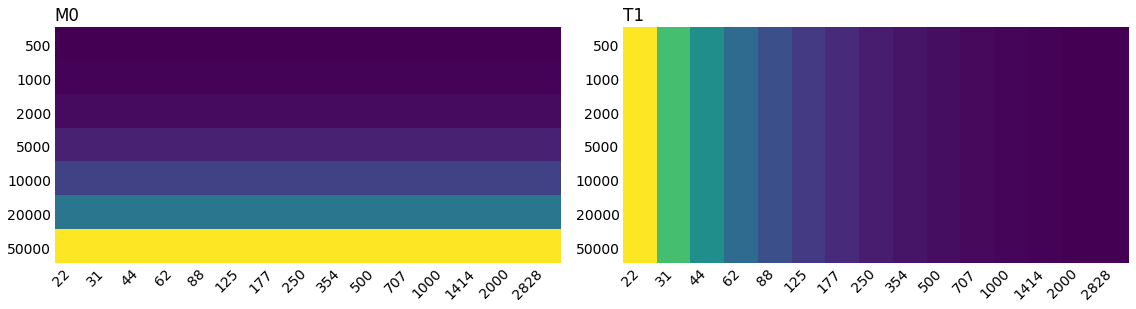
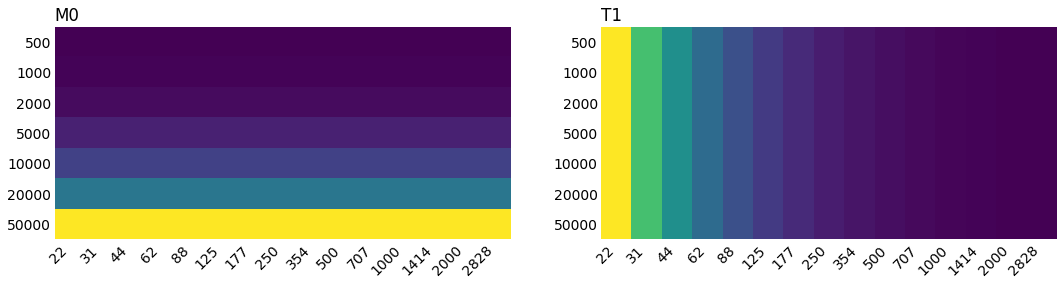
Update from https://github.com/OSIPI/DCE-DSC-MRI_CodeCollection/commit/5ff21ed738cb6ae3bfa2ce28475b15950de70b2d

Changed region(s): [[0.0, 0.0281, 1.0, 0.9825]]

diff --git a/searchindex.js b/searchindex.js
@@ -1,1 +1,1 @@
-Search.setIndex({docnames:["T1_tests_output","T1mapping","T1mapping_QIBAv1","T1mapping_QIBAv2","contributors","guidelines","intro","localguide","localtests","vfatestoverview"],envversion:{"sphinx.domains.c":2,"sphinx.domains.changeset":1,"sphinx.domains.citation":1,"sphinx.domains.cpp":4,"sphinx.domains.index":1,"sphinx.domains.javascript":2,"sphinx.domains.math":2,"sphinx.domains.python":3,"sphinx.domains.rst":2,"sphinx.domains.std":2,"sphinx.ext.intersphinx":1,sphinx:56},filenames:["T1_tests_output.ipynb","T1mapping.md","T1mapping_QIBAv1.ipynb","T1mapping_QIBAv2.ipynb","contributors.ipynb","guidelines.md","intro.md","localguide.md","localtests.md","vfatestoverview.md"],objects:{},objnames:{},objtypes:{},terms:{"0":[0,2,3,4,8,9],"05":2,"06":2,"08":2,"1":[0,1,2,3,4,8],"10":[3,4,8],"100":3,"10x10":3,"11":3,"112":2,"12":[3,8],"120":0,"121":0,"122":0,"13":[0,3],"133":2,"14":0,"141":2,"15":[2,3],"16":0,"17":[2,3],"170":0,"19":2,"1min":2,"1s":2,"2":[0,3,4,7,8],"20":[2,3,8],"213":2,"24":3,"25":2,"26":[2,3],"269":2,"2d":[2,3],"3":[0,2,3,4,5,7],"34":3,"35":3,"36":3,"3hwtc":3,"4":[3,4],"40":3,"44":3,"5":[0,3],"50":3,"56":2,"57":2,"6":[0,3,8],"62":3,"64":3,"66":3,"68":4,"69":4,"7":[2,3,8],"70":4,"70x150":3,"71":[3,4],"72":4,"73":4,"74":3,"76":0,"77":0,"7x15":3,"8":[2,3],"8bfb049230e307f4432fd68d24c603a1":[2,3],"9":[2,3,4],"94":3,"case":[8,9],"default":7,"function":[8,9],"import":[0,2,3,8],"new":7,"return":8,"switch":7,"true":[0,2,3],"try":0,"while":[7,9],A:[5,9],As:[3,8],At:7,For:[0,7,9],If:[5,7,8],In:8,It:8,Not:0,On:[5,7],The:[1,2,3,5,6,7,8],To:[3,5,7],_test:8,ab:8,about:7,abov:5,accept:5,accuraci:2,acquisit:1,across:7,ad:[7,8],add:[5,7,8],addit:9,address:5,adopt:8,advantag:2,affect:7,again:2,all:[2,5,7,8],all_untracked_fil:5,almost:0,alpha:1,alreadi:7,also:5,although:3,altman:0,amsterdam:4,an:[5,8,9],angl:[1,6,9],ani:7,anoth:[5,8],api:8,applic:[5,7],approach:[5,9],ar:[0,1,2,3,5,7,8,9],arang:0,argument:9,ask:5,assert:8,assum:8,author:[2,3,4,5],ax:[0,3],axi:0,b1:1,b:[5,7,8],barrow:4,base:[5,7,9],basic:8,becaus:2,been:[3,7,8,9],befor:7,being:[7,8,9],bell:4,below:[2,3,5,7,8],berk:4,better:[0,2],between:0,bland:0,block:3,brain:0,briefli:8,bsw:4,c0baa2a1c55afdf1764b26ee2ebeb1cbf26d8d98:[2,3],c:8,calcul:0,can:[2,5,8],capit:8,capital_cas:8,categori:4,cbf:4,cbv:4,center:4,champion:4,chang:0,cheat:7,check:[7,9],checkout:[5,7],citat:5,click:5,clim:2,clone:7,co:1,code:[7,8,9],colleagu:5,collect:6,column:4,com:[2,3,5,7],combin:[2,3],command:[7,8],commit:[5,7],commonli:8,commun:5,compar:[5,7],compat:3,complet:4,compon:5,comput:[2,7,9],concentr:4,conda:8,connect:7,consist:2,contact:5,contain:[2,3,5],continu:8,control:1,convent:8,correct:[4,9],correspond:[0,8],could:[3,9],cpu:[2,3],csv:0,current:[4,5,6,9],data:[0,2,3,5,6,8],data_mcgil:0,data_mjt:0,data_og:0,data_st:0,datafold:[2,3],dce:[4,5,7],def:8,degre:9,delet:7,deliver:7,delta:0,deltar2:4,denot:8,deriv:4,describ:[1,5,8],descript:9,detail:[5,8],determin:9,develop:7,development:7,diff:0,diff_mcgil:0,diff_mcgill_brain:0,diff_mcgill_pr:0,diff_mjt:0,diff_mjt_brain:0,diff_mjt_pr:0,diff_og:0,diff_og_brain:0,diff_og_pr:0,diff_st:0,diff_st_brain:0,diff_st_pr:0,differ:[0,2,5,7,8],directli:5,doc:8,document:[7,8,9],down:[5,7],download:[2,3],download_osf:[2,3],drawfunc:3,dro:9,drop:[5,7],dsc:[4,5,7],dual:4,dure:7,e:[5,9],each:[3,7,9],earlier:7,echo:[1,4],edinburgh:[3,4],edinburgh_l:[2,3],edinburgh_nl:[2,3],effect:1,either:8,email:5,empti:4,enabl:7,encourag:7,enhanc:4,enter:7,entri:0,equal:9,equt:9,error:[2,3,9],establish:7,estim:[1,2],etc:5,evalu:7,exampl:[7,8,9],example_funct:8,except:9,exhaust:7,exp:1,expect:[8,9],explicitli:7,extra:0,extrem:2,face:7,facilit:5,fail:8,failur:8,fast:2,featur:7,feature_branch_nam:5,fig:[0,3],figsiz:0,figur:[0,3,7],file:[5,7],file_test_mcgil:0,file_test_mjt:0,file_test_og:0,file_test_st:0,filenam:3,first:[0,2,7,8],firstlast:8,fit:[2,3,9],fittedm0:2,fittedt1:2,fittyp:[2,3],flip:[1,6,9],focus:6,folder:[5,7,8],follow:[2,3,5,7,8,9],fontsiz:0,forc:[5,7],forg:8,found:8,frac:1,framework:9,from:[0,2,3,7,8,9],further:5,g:5,gener:7,get:8,gif:3,gist:[2,3],git:[5,7],github:[2,3,7],give:2,goal:1,gradient:1,grid:[2,3],ground:2,group:5,guid:[5,8],guidelin:7,gurnei:4,ha:[2,3,7,8],hardcod:0,have:[2,7,9],heavi:2,help:5,hostedtoolcach:3,hous:[5,7],how:8,howev:3,http:[2,3,5,7],i:9,ident:[0,2,3],identifi:5,idx:3,ignor:1,imag:3,immedi:7,implement:[0,2,3],includ:[3,5,9],incorrect:3,index_list:0,index_list_br:0,index_list_pr:0,indic:[0,8],inform:7,initi:[5,7],initials_featurebranchnam:5,institut:[4,5],instruct:7,instut:5,intend:5,invalid:9,invit:5,invivo:9,io:[2,3],isdir:[2,3],issu:[5,7],its:7,join:[0,2,3],jzu4k:2,kershaw:4,kind:0,known:[1,5],lab:5,label:[0,5],label_mcgil:0,label_mjt:0,label_og:0,label_st:0,lambda:3,last:8,lattic:1,laura:4,lcb_bni:4,lead:5,leakag:4,least:3,legend:0,lek_uoedinburgh:4,len:9,let:[1,2,3,7,8],level:3,lib:3,librari:7,like:7,limit:5,line:8,linear:3,link:7,ll:[2,3],load:3,loadmat:[2,3],locat:[7,8],loct:8,look:7,luci:4,m0:[2,3],m:[5,7],m_0:[1,2,3],maco:7,made:7,magnet:1,mai:7,make_error_map_gif:3,makedir:[2,3],manag:8,manchest:4,map:[2,3,6],mark:8,master:7,mat:[2,3],matplotlib:[0,2,3],matthew:4,mayb:9,mb_qbi_uomanchesteruk:4,mcgill:[0,3],mcgill_can:0,mcgill_ll:[2,3],mcgill_lls_error:3,mcgill_nl:[2,3],mean:0,mean_meas_data:0,mean_measur:0,measur:0,mechan:5,medic:4,menu:7,merg:7,messag:[5,7,8],michael:4,might:[0,3],mileston:[5,7],mismatch:9,mjt:0,mjt_edinburghuk:0,mjt_uoedinburghuk:4,modif:7,modifi:8,more:5,mr:9,mri:[1,5],mri_codecollect:[5,7],ms:[2,3],mtt:4,multipl:0,name:[5,7,8],nan:4,navig:7,nb:[2,3],necessari:5,need:0,neg:9,neth:4,neurolog:4,new_file_in_repositori:7,next:[2,3],nl:[2,3],nois:[2,3,9],noisi:3,nomenclatur:8,non:3,nonlinear:[2,3],note:[4,5,7,8],notebook:3,notzaki:[2,3],now:[1,5,7,8],ns:[2,3],numpi:[0,8],ob:0,obtain:[7,8],occupi:3,og:0,og_mo_aumc_icr_rhm:0,og_mo_aumc_icr_rmh:4,oliv:4,om:0,one:5,onli:[3,7],open:7,oper:7,opt:3,option:5,organ:5,origin:[5,7],orton:4,os:[0,2,3],osf:[2,3],osipi:[2,3,5,7,8],osipitaskforc:7,ot:7,other:5,our:8,out:[0,7],outlin:7,output:[7,8,9],packag:[3,8],pad:0,panda:0,paramet:[1,2,3,4],parametr:8,part:[5,9],particular:7,pass:9,path:[0,2,3],percent:3,percenterror:[2,3],perform:[5,7,8],perfus:8,phantom:[2,3,9],pip:8,pipelin:5,pleas:[5,7],plot:0,plt:[2,3],pltstyle:[2,3],point:7,poor:2,power:7,precis:2,prefer:5,prefix:8,present:7,previou:3,print:3,progress:[4,5],project:7,prostat:0,provid:[5,7,9],pull:7,purpos:8,puse:7,push:7,py:[3,5,8],pyplot:[0,2,3],pytest:8,python3:3,python:[3,5],qibav1:2,queri:5,question:5,r1:[0,4],r1_:0,r1_mcgill:0,r1_mcgill_brain:0,r1_mcgill_dro:0,r1_mcgill_pr:0,r1_measur:0,r1_mjt:0,r1_mjt_brain:0,r1_mjt_dro:0,r1_mjt_pr:0,r1_og:0,r1_og_brain:0,r1_og_dro:0,r1_og_pr:0,r1_ref:0,r1_st:0,r1_st_brain:0,r1_st_dro:0,r1_st_pr:0,r2:4,ragunathan:[4,5],rais:9,raw:[2,3],read_csv:0,real:5,recal:1,ref:0,ref_brain:0,ref_dro:0,ref_pr:0,refer:0,referenc:7,reflect:7,regard:5,relax:1,relev:5,remain:7,remind:3,remove_spac:8,repetit:1,report:7,repositori:5,repres:[5,9],request:7,research:5,result:[3,8,9],resultdir:0,returnfig:3,routin:8,row:[0,4],rudimentari:9,s:[0,1,2,3,5,7,8],sai:[5,7],same:[3,7],scanner:1,scientif:8,scipi:8,script:5,section:[2,3],see:8,select:[3,5],set:7,set_titl:0,set_xlabel:0,set_ylabel:0,sheet:7,should:[2,5,9],show:[0,2,7],show_error_map:[2,3],show_map:[2,3],showcbar:[2,3],shown:[3,7,8],sigma:3,signal:[1,3,4,9],similar:7,similari:8,simpl:7,simuat:9,simul:9,sin:1,singl:[3,4],site:3,size:3,slightli:2,slower:2,so:3,someth:7,sourc:[5,8],specif:[1,8,9],specifi:[7,9],speed:3,spgr:4,spin:1,spoil:1,squar:3,sr_tbg_bniphoenixusa:4,src:[5,8],st:0,st_sydneyau:0,start:8,statu:[4,5,7,9],step:[5,7],still:7,store:0,style:[2,3],subcategori:4,subfold:4,submiss:5,subplot:0,sudarshan:[4,5],suffici:7,suffix:8,sure:0,sy:[2,3],sydnei:3,sydney_l:[2,3],sydney_nl:[2,3],system:7,t1:[2,3,6],t_1:[1,2,3],t_2:1,tab:5,tabl:4,task:[5,7],tbd:4,te:1,techniqu:4,tend:2,termin:7,test:[2,3,4,5],test_:8,test_add:8,test_capital_cas:8,test_example_funct:8,test_osipitf:8,test_remove_spac:8,tester:4,testresults_t1mapping_test_mcgill_t1_novifast:0,testresults_t1mapping_test_mcgill_t1_vfa_lin:0,testresults_t1mapping_test_mjt_edinburghuk_t1_vfa_lin:0,testresults_t1mapping_test_mjt_edinburghuk_t1_vfa_nonlin:0,testresults_t1mapping_test_og_mo_aumc_icr_rhm_t1_vfa_2fa:0,testresults_t1mapping_test_st_sydneyaus_t1_vfa_lin:0,testresults_t1mapping_test_st_sydneyaus_t1_vfa_nonlin:0,text:5,tf2:5,thei:[2,7],thi:[0,2,3,4,5,6,7,8,9],those:0,three:[0,2],thrippleton:4,through:[5,7],tight_layout:[0,3],time:[1,2,3,7,9],tissu:1,titl:[0,2,3],tool:7,total:[2,3],tr:1,track:7,tracker:[5,7],tradit:2,truth:[2,3],typic:5,u:[5,8],uk:4,under:[2,5],uniqu:7,unit:9,univers:4,unless:7,unlik:3,unnam:4,untrack:7,up:[3,7],updat:5,upstream:7,url:7,us:[2,3,5,6,7,9],usa:4,user:[2,3,7],userwarn:3,util:[2,3],v1:3,v3:3,valu:[0,2,3],vari:9,variabl:[6,9],ve:3,version:7,vfa:[2,3],vfa_fit:[2,3],vfadata:[2,3],vfadata_noisi:3,vfafil:[2,3],via:5,voxel:3,vs:0,wai:0,wall:[2,3],we:[0,5,7,8],welcom:7,well:8,were:[3,8],when:7,where:[7,8],wherein:7,which:[8,9],within:[7,8],without:9,world:5,would:[5,7,8,9],wrapper:[2,3],write:8,written:5,x64:3,x:[0,7,8],xlabel:0,y:[0,8],ylabel:0,you:[5,7],your:[5,7]},titles:["Visualize output T1 mapping tests","T1 mapping","QIBA v1","QIBA v2","Contributors","Guidelines for code contribution","OSIPI Code Demo","Create a copy of the respository and contribute changes","Creating a Python test file","VFA T1 Mapping: Test Overview"],titleterms:{"new":5,"switch":5,In:[0,5],addit:7,approv:5,arrai:9,assert:9,branch:[5,7],chang:7,clone:5,code:[5,6],content:8,contribut:[5,7],contributor:[4,5],copi:7,creat:[5,7,8],cv:0,data:9,demo:6,depend:8,develop:5,dimension:9,dro:0,edinburgh:2,essenti:5,execut:8,featur:5,file:[0,8],fit:0,from:5,github:5,guidelin:5,how:5,inform:5,input:9,instal:8,least:2,linear:[0,2],link:8,local:7,make:5,map:[0,1,9],mcgill:2,method:0,non:2,nonlinear:0,open:0,osipi:6,output:0,overview:9,pre:8,process:5,pull:5,push:5,python:8,qiba:[2,3],remot:[5,7],repo:5,repositori:7,request:5,requisit:8,resourc:7,respositori:7,result:0,setup:7,specif:7,squar:2,submit:[5,7],sydnei:2,t1:[0,1,9],test:[0,8,9],type:9,unit:8,us:8,v1:2,v2:3,valid:9,valu:9,vfa:9,visual:0,vivo:0,work:7}})
+Search.setIndex({docnames:["T1_tests_output","T1mapping","T1mapping_QIBAv1","T1mapping_QIBAv2","contributors","guidelines","intro","localguide","localtests","vfatestoverview"],envversion:{"sphinx.domains.c":2,"sphinx.domains.changeset":1,"sphinx.domains.citation":1,"sphinx.domains.cpp":4,"sphinx.domains.index":1,"sphinx.domains.javascript":2,"sphinx.domains.math":2,"sphinx.domains.python":3,"sphinx.domains.rst":2,"sphinx.domains.std":2,"sphinx.ext.intersphinx":1,sphinx:56},filenames:["T1_tests_output.ipynb","T1mapping.md","T1mapping_QIBAv1.ipynb","T1mapping_QIBAv2.ipynb","contributors.ipynb","guidelines.md","intro.md","localguide.md","localtests.md","vfatestoverview.md"],objects:{},objnames:{},objtypes:{},terms:{"0":[0,2,4,8,9],"04":2,"08":2,"1":[0,1,2,3,4,8],"10":[2,3,4,8],"100":3,"10x10":3,"11":3,"12":8,"120":0,"121":0,"122":0,"123":3,"13":[0,2],"14":0,"142":2,"145":2,"15":[2,3],"157":2,"158":2,"16":0,"162":2,"170":0,"196":2,"2":[0,3,4,7,8],"20":[2,3,8],"22":3,"23":3,"257":3,"2d":[2,3],"3":[0,2,3,4,5,7],"33":3,"34":3,"35":2,"390":3,"3hwtc":3,"4":[2,4],"400":2,"408":2,"409":2,"42":3,"45":3,"5":[0,3],"50":3,"6":[0,3,8],"64":[2,3],"66":3,"68":4,"69":4,"7":[2,3,8],"70":[3,4],"70x150":3,"71":[2,3,4],"72":4,"73":4,"75":3,"76":[0,3],"77":0,"7x15":3,"8":2,"851":2,"852":2,"855":2,"8bfb049230e307f4432fd68d24c603a1":[2,3],"9":4,"\u00b5s":3,"case":[8,9],"default":7,"function":[8,9],"import":[0,2,3,8],"new":7,"return":8,"switch":7,"true":[0,2,3],"try":0,"while":[7,9],A:[5,9],As:[3,8],At:7,For:[0,7,9],If:[5,7,8],In:8,It:8,Not:0,On:[5,7],The:[1,2,3,5,6,7,8],To:[3,5,7],_test:8,ab:8,about:7,abov:5,accept:5,accuraci:2,acquisit:1,across:7,ad:[7,8],add:[5,7,8],addit:9,address:5,adopt:8,advantag:2,affect:7,again:2,all:[2,5,7,8],all_untracked_fil:5,almost:0,alpha:1,alreadi:7,also:5,although:3,altman:0,amsterdam:4,an:[5,8,9],angl:[1,6,9],ani:7,anoth:[5,8],api:8,applic:[5,7],approach:[5,9],ar:[0,1,2,3,5,7,8,9],arang:0,argument:9,ask:5,assert:8,assum:8,author:[2,3,4,5],ax:0,axi:0,b1:1,b:[5,7,8],barrow:4,base:[5,7,9],basic:8,becaus:2,been:[3,7,8,9],befor:7,being:[7,8,9],bell:4,below:[2,3,5,7,8],berk:4,better:[0,2],between:0,bland:0,block:3,brain:0,briefli:8,bsw:4,c0baa2a1c55afdf1764b26ee2ebeb1cbf26d8d98:[2,3],c:8,calcul:0,can:[2,5,8],capit:8,capital_cas:8,categori:4,cbf:4,cbv:4,center:4,champion:4,chang:0,cheat:7,check:[7,9],checkout:[5,7],citat:5,click:5,clim:2,clone:7,co:1,code:[7,8,9],colleagu:5,collect:6,column:4,com:[2,3,5,7],combin:[2,3],command:[7,8],commit:[5,7],commonli:8,commun:5,compar:[5,7],complet:4,compon:5,comput:[2,7,9],concentr:4,conda:8,connect:7,consist:2,contact:5,contain:[2,3,5],continu:8,control:1,convent:8,correct:[4,9],correspond:[0,8],could:[3,9],cpu:[2,3],csv:0,current:[4,5,6,9],data:[0,2,3,5,6,8],data_mcgil:0,data_mjt:0,data_og:0,data_st:0,datafold:[2,3],dce:[4,5,7],def:8,degre:9,delet:7,deliver:7,delta:0,deltar2:4,denot:8,deriv:4,describ:[1,5,8],descript:9,detail:[5,8],determin:9,develop:7,development:7,diff:0,diff_mcgil:0,diff_mcgill_brain:0,diff_mcgill_pr:0,diff_mjt:0,diff_mjt_brain:0,diff_mjt_pr:0,diff_og:0,diff_og_brain:0,diff_og_pr:0,diff_st:0,diff_st_brain:0,diff_st_pr:0,differ:[0,2,5,7,8],directli:5,doc:8,document:[7,8,9],down:[5,7],download:[2,3],download_osf:[2,3],drawfunc:3,dro:9,drop:[5,7],dsc:[4,5,7],dual:4,dure:7,e:[5,9],each:[3,7,9],earlier:7,echo:[1,4],edinburgh:[3,4],edinburgh_l:[2,3],edinburgh_nl:[2,3],effect:1,either:8,email:5,empti:4,enabl:7,encourag:7,enhanc:4,enter:7,entri:0,equal:9,equt:9,error:[2,3,9],establish:7,estim:[1,2],etc:5,evalu:7,exampl:[7,8,9],example_funct:8,except:9,exhaust:7,exp:1,expect:[8,9],explicitli:7,extra:0,extrem:2,face:7,facilit:5,fail:8,failur:8,fast:2,featur:7,feature_branch_nam:5,fig:0,figsiz:0,figur:[0,7],file:[5,7],file_test_mcgil:0,file_test_mjt:0,file_test_og:0,file_test_st:0,filenam:3,first:[0,2,7,8],firstlast:8,fit:[2,3,9],fittedm0:2,fittedt1:2,fittyp:[2,3],flip:[1,6,9],focus:6,folder:[5,7,8],follow:[2,3,5,7,8,9],fontsiz:0,forc:[5,7],forg:8,found:8,frac:1,framework:9,from:[0,2,3,7,8,9],further:5,g:5,gener:7,get:8,gif:3,gist:[2,3],git:[5,7],github:[2,3,7],give:2,goal:1,gradient:1,grid:[2,3],ground:2,group:5,guid:[5,8],guidelin:7,gurnei:4,ha:[2,3,7,8],hardcod:0,have:[2,7,9],heavi:2,help:5,hous:[5,7],how:8,howev:3,http:[2,3,5,7],i:9,ident:[0,2,3],identifi:5,idx:3,ignor:1,imag:3,immedi:7,implement:[0,2,3],includ:[5,9],index_list:0,index_list_br:0,index_list_pr:0,indic:[0,8],inform:7,initi:[5,7],initials_featurebranchnam:5,institut:[4,5],instruct:7,instut:5,intend:5,invalid:9,invit:5,invivo:9,io:[2,3],isdir:[2,3],issu:[5,7],its:7,join:[0,2,3],jzu4k:2,kershaw:4,kind:0,known:[1,5],lab:5,label:[0,5],label_mcgil:0,label_mjt:0,label_og:0,label_st:0,lambda:3,last:8,lattic:1,laura:4,lcb_bni:4,lead:5,leakag:4,least:3,legend:0,lek_uoedinburgh:4,len:9,let:[1,2,3,7,8],level:3,librari:7,like:7,limit:5,line:8,linear:3,link:7,ll:[2,3],load:3,loadmat:[2,3],locat:[7,8],loct:8,look:7,luci:4,m0:[2,3],m:[5,7],m_0:[1,2,3],maco:7,made:7,magnet:1,mai:7,make_error_map_gif:3,makedir:[2,3],manag:8,manchest:4,map:[2,3,6],mark:8,master:7,mat:[2,3],matplotlib:[0,2,3],matthew:4,mayb:9,mb_qbi_uomanchesteruk:4,mcgill:[0,3],mcgill_can:0,mcgill_ll:[2,3],mcgill_lls_error:3,mcgill_nl:[2,3],mean:0,mean_meas_data:0,mean_measur:0,measur:0,mechan:5,medic:4,menu:7,merg:7,messag:[5,7,8],michael:4,might:0,mileston:[5,7],mismatch:9,mjt:0,mjt_edinburghuk:0,mjt_uoedinburghuk:4,modif:7,modifi:8,more:5,mr:9,mri:[1,5],mri_codecollect:[5,7],ms:[2,3],mtt:4,multipl:0,name:[5,7,8],nan:4,navig:7,nb:[2,3],necessari:5,need:0,neg:9,neth:4,neurolog:4,new_file_in_repositori:7,next:[2,3],nl:[2,3],nois:[2,3,9],noisi:3,nomenclatur:8,non:3,nonlinear:[2,3],note:[4,5,7,8],notebook:3,notzaki:[2,3],now:[1,5,7,8],ns:2,numpi:[0,8],ob:0,obtain:[7,8],occupi:3,og:0,og_mo_aumc_icr_rhm:0,og_mo_aumc_icr_rmh:4,oliv:4,om:0,one:5,onli:[3,7],open:7,oper:7,option:5,organ:5,origin:[5,7],orton:4,os:[0,2,3],osf:[2,3],osipi:[2,3,5,7,8],osipitaskforc:7,ot:7,other:5,our:8,out:[0,7],outlin:7,output:[7,8,9],packag:8,pad:0,panda:0,paramet:[1,2,3,4],parametr:8,part:[5,9],particular:7,pass:9,path:[0,2,3],percent:3,percenterror:[2,3],perform:[5,7,8],perfus:8,phantom:[2,3,9],pip:8,pipelin:5,pleas:[5,7],plot:0,plt:[2,3],pltstyle:[2,3],point:7,poor:2,power:7,precis:2,prefer:5,prefix:8,present:7,previou:3,print:3,progress:[4,5],project:7,prostat:0,provid:[5,7,9],pull:7,purpos:8,puse:7,push:7,py:[5,8],pyplot:[0,2,3],pytest:8,python:5,qibav1:2,queri:5,question:5,r1:[0,4],r1_:0,r1_mcgill:0,r1_mcgill_brain:0,r1_mcgill_dro:0,r1_mcgill_pr:0,r1_measur:0,r1_mjt:0,r1_mjt_brain:0,r1_mjt_dro:0,r1_mjt_pr:0,r1_og:0,r1_og_brain:0,r1_og_dro:0,r1_og_pr:0,r1_ref:0,r1_st:0,r1_st_brain:0,r1_st_dro:0,r1_st_pr:0,r2:4,ragunathan:[4,5],rais:9,raw:[2,3],read_csv:0,real:5,recal:1,ref:0,ref_brain:0,ref_dro:0,ref_pr:0,refer:0,referenc:7,reflect:7,regard:5,relax:1,relev:5,remain:7,remind:3,remove_spac:8,repetit:1,report:7,repositori:5,repres:[5,9],request:7,research:5,result:[8,9],resultdir:0,returnfig:3,routin:8,row:[0,4],rudimentari:9,s:[0,1,2,3,5,7,8],sai:[5,7],same:[3,7],scanner:1,scientif:8,scipi:8,script:5,section:[2,3],see:8,select:[3,5],set:7,set_titl:0,set_xlabel:0,set_ylabel:0,sheet:7,should:[2,5,9],show:[0,2,7],show_error_map:[2,3],show_map:[2,3],showcbar:[2,3],shown:[3,7,8],sigma:3,signal:[1,2,3,4,9],similar:7,similari:8,simpl:7,simuat:9,simul:9,sin:1,singl:[3,4],size:3,slightli:2,slower:2,so:3,someth:7,sourc:[5,8],specif:[1,8,9],specifi:[7,9],speed:3,spgr:4,spin:1,spoil:1,squar:3,sr_tbg_bniphoenixusa:4,src:[5,8],st:0,st_sydneyau:0,start:8,statu:[4,5,7,9],step:[5,7],still:7,store:0,style:[2,3],subcategori:4,subfold:4,submiss:5,subplot:0,sudarshan:[4,5],suffici:7,suffix:8,sure:0,sy:[2,3],sydnei:3,sydney_l:[2,3],sydney_nl:[2,3],system:7,t1:[2,3,6],t_1:[1,2,3],t_2:1,tab:5,tabl:4,task:[5,7],tbd:4,te:1,techniqu:4,tend:2,termin:7,test:[2,3,4,5],test_:8,test_add:8,test_capital_cas:8,test_example_funct:8,test_osipitf:8,test_remove_spac:8,tester:4,testresults_t1mapping_test_mcgill_t1_novifast:0,testresults_t1mapping_test_mcgill_t1_vfa_lin:0,testresults_t1mapping_test_mjt_edinburghuk_t1_vfa_lin:0,testresults_t1mapping_test_mjt_edinburghuk_t1_vfa_nonlin:0,testresults_t1mapping_test_og_mo_aumc_icr_rhm_t1_vfa_2fa:0,testresults_t1mapping_test_st_sydneyaus_t1_vfa_lin:0,testresults_t1mapping_test_st_sydneyaus_t1_vfa_nonlin:0,text:5,tf2:5,thei:[2,7],thi:[0,2,3,4,5,6,7,8,9],those:0,three:[0,2],thrippleton:4,through:[5,7],tight_layout:0,time:[1,2,3,7,9],tissu:1,titl:[0,2,3],tool:7,total:[2,3],tr:1,track:7,tracker:[5,7],tradit:2,truth:[2,3],typic:5,u:[5,8],uk:4,under:[2,5],uniqu:7,unit:9,univers:4,unless:7,unlik:3,unnam:4,untrack:7,up:[3,7],updat:5,upstream:7,url:7,us:[2,3,5,6,7,9],usa:4,user:[2,3,7],util:[2,3],v1:3,v3:3,valu:[0,2,3],vari:9,variabl:[6,9],ve:3,version:7,vfa:[2,3],vfa_fit:[2,3],vfadata:[2,3],vfadata_noisi:3,vfafil:[2,3],via:5,voxel:3,vs:0,wai:0,wall:[2,3],we:[0,5,7,8],welcom:7,well:8,were:[3,8],when:7,where:[7,8],wherein:7,which:[8,9],within:[7,8],without:9,world:5,would:[5,7,8,9],wrapper:[2,3],write:8,written:5,x:[0,7,8],xlabel:0,y:[0,8],ylabel:0,you:[5,7],your:[5,7]},titles:["Visualize output T1 mapping tests","T1 mapping","QIBA v1","QIBA v2","Contributors","Guidelines for code contribution","OSIPI Code Demo","Create a copy of the respository and contribute changes","Creating a Python test file","VFA T1 Mapping: Test Overview"],titleterms:{"new":5,"switch":5,In:[0,5],addit:7,approv:5,arrai:9,assert:9,branch:[5,7],chang:7,clone:5,code:[5,6],content:8,contribut:[5,7],contributor:[4,5],copi:7,creat:[5,7,8],cv:0,data:9,demo:6,depend:8,develop:5,dimension:9,dro:0,edinburgh:2,essenti:5,execut:8,featur:5,file:[0,8],fit:0,from:5,github:5,guidelin:5,how:5,inform:5,input:9,instal:8,least:2,linear:[0,2],link:8,local:7,make:5,map:[0,1,9],mcgill:2,method:0,non:2,nonlinear:0,open:0,osipi:6,output:0,overview:9,pre:8,process:5,pull:5,push:5,python:8,qiba:[2,3],remot:[5,7],repo:5,repositori:7,request:5,requisit:8,resourc:7,respositori:7,result:0,setup:7,specif:7,squar:2,submit:[5,7],sydnei:2,t1:[0,1,9],test:[0,8,9],type:9,unit:8,us:8,v1:2,v2:3,valid:9,valu:9,vfa:9,visual:0,vivo:0,work:7}})

diff --git a/T1mapping_QIBAv1.html b/T1mapping_QIBAv1.html
@@ -326,6 +326,9 @@
 <span class="n">vfafile</span> <span class="o">=</span> <span class="n">os</span><span class="o">.</span><span class="n">path</span><span class="o">.</span><span class="n">join</span><span class="p">(</span><span class="n">datafolder</span><span class="p">,</span> <span class="s2">&quot;vfadata.mat&quot;</span><span class="p">)</span>
 <span class="n">download_osf</span><span class="p">(</span><span class="s2">&quot;https://osf.io/jzu4k/download&quot;</span><span class="p">,</span> <span class="n">vfafile</span><span class="p">)</span>
 <span class="n">vfadata</span> <span class="o">=</span> <span class="n">loadmat</span><span class="p">(</span><span class="n">vfafile</span><span class="p">)</span>
+<span class="n">vfadata</span><span class="o">.</span><span class="n">signal</span> <span class="o">=</span> <span class="n">vfadata</span><span class="o">.</span><span class="n">signal</span><span class="p">[::</span><span class="mi">10</span><span class="p">,</span> <span class="p">::</span><span class="mi">10</span><span class="p">,</span> <span class="p">:]</span>
+<span class="n">vfadata</span><span class="o">.</span><span class="n">M0</span> <span class="o">=</span> <span class="n">vfadata</span><span class="o">.</span><span class="n">M0</span><span class="p">[::</span><span class="mi">10</span><span class="p">,</span> <span class="p">::</span><span class="mi">10</span><span class="p">]</span>
+<span class="n">vfadata</span><span class="o">.</span><span class="n">T1</span> <span class="o">=</span> <span class="n">vfadata</span><span class="o">.</span><span class="n">T1</span><span class="p">[::</span><span class="mi">10</span><span class="p">,</span> <span class="p">::</span><span class="mi">10</span><span class="p">]</span>
 </pre></div>
 </div>
 </div>
@@ -340,7 +343,6 @@ The ground truth is show below:</p>
 </div>
 <div class="cell_output docutils container">
 <img alt="_images/T1mapping_QIBAv1_5_0.png" src="_images/T1mapping_QIBAv1_5_0.png" />
-<img alt="_images/T1mapping_QIBAv1_5_1.png" src="_images/T1mapping_QIBAv1_5_1.png" />
 </div>
 </div>
 <div class="section" id="linear-least-squares">
@@ -358,8 +360,8 @@ The ground truth is show below:</p>
 </div>
 </div>
 <div class="cell_output docutils container">
-<div class="output stream highlight-myst-ansi notranslate"><div class="highlight"><pre><span></span>CPU times: user 1.06 s, sys: 17.9 ms, total: 1.08 s
-Wall time: 1.05 s
+<div class="output stream highlight-myst-ansi notranslate"><div class="highlight"><pre><span></span>CPU times: user 158 ms, sys: 4.08 ms, total: 162 ms
+Wall time: 157 ms
 </pre></div>
 </div>
 <img alt="_images/T1mapping_QIBAv1_9_1.png" src="_images/T1mapping_QIBAv1_9_1.png" />
@@ -377,8 +379,8 @@ Wall time: 1.05 s
 </div>
 </div>
 <div class="cell_output docutils container">
-<div class="output stream highlight-myst-ansi notranslate"><div class="highlight"><pre><span></span>CPU times: user 1min 1s, sys: 57.8 ms, total: 1min 1s
-Wall time: 1min 1s
+<div class="output stream highlight-myst-ansi notranslate"><div class="highlight"><pre><span></span>CPU times: user 851 ms, sys: 3.64 ms, total: 855 ms
+Wall time: 852 ms
 </pre></div>
 </div>
 <img alt="_images/T1mapping_QIBAv1_11_1.png" src="_images/T1mapping_QIBAv1_11_1.png" />
@@ -396,8 +398,8 @@ Wall time: 1min 1s
 </div>
 </div>
 <div class="cell_output docutils container">
-<div class="output stream highlight-myst-ansi notranslate"><div class="highlight"><pre><span></span>CPU times: user 133 ms, sys: 0 ns, total: 133 ms
-Wall time: 133 ms
+<div class="output stream highlight-myst-ansi notranslate"><div class="highlight"><pre><span></span>CPU times: user 145 ms, sys: 13 ms, total: 158 ms
+Wall time: 142 ms
 </pre></div>
 </div>
 <img alt="_images/T1mapping_QIBAv1_13_1.png" src="_images/T1mapping_QIBAv1_13_1.png" />
@@ -420,8 +422,8 @@ Wall time: 133 ms
 </div>
 </div>
 <div class="cell_output docutils container">
-<div class="output stream highlight-myst-ansi notranslate"><div class="highlight"><pre><span></span>CPU times: user 26.3 s, sys: 19.9 ms, total: 26.3 s
-Wall time: 26.3 s
+<div class="output stream highlight-myst-ansi notranslate"><div class="highlight"><pre><span></span>CPU times: user 400 ms, sys: 7.71 ms, total: 408 ms
+Wall time: 409 ms
 </pre></div>
 </div>
 <img alt="_images/T1mapping_QIBAv1_17_1.png" src="_images/T1mapping_QIBAv1_17_1.png" />
@@ -439,8 +441,8 @@ Wall time: 26.3 s
 </div>
 </div>
 <div class="cell_output docutils container">
-<div class="output stream highlight-myst-ansi notranslate"><div class="highlight"><pre><span></span>CPU times: user 1min 25s, sys: 112 ms, total: 1min 25s
-Wall time: 1min 25s
+<div class="output stream highlight-myst-ansi notranslate"><div class="highlight"><pre><span></span>CPU times: user 1.04 s, sys: 8.35 ms, total: 1.04 s
+Wall time: 1.04 s
 </pre></div>
 </div>
 <img alt="_images/T1mapping_QIBAv1_19_1.png" src="_images/T1mapping_QIBAv1_19_1.png" />
@@ -458,8 +460,8 @@ Wall time: 1min 25s
 </div>
 </div>
 <div class="cell_output docutils container">
-<div class="output stream highlight-myst-ansi notranslate"><div class="highlight"><pre><span></span>CPU times: user 213 ms, sys: 56.1 ms, total: 269 ms
-Wall time: 141 ms
+<div class="output stream highlight-myst-ansi notranslate"><div class="highlight"><pre><span></span>CPU times: user 196 ms, sys: 0 ns, total: 196 ms
+Wall time: 196 ms
 </pre></div>
 </div>
 <img alt="_images/T1mapping_QIBAv1_21_1.png" src="_images/T1mapping_QIBAv1_21_1.png" />

diff --git a/T1mapping_QIBAv2.html b/T1mapping_QIBAv2.html
@@ -333,37 +333,37 @@ To speed up the fits, only a single voxel from each block will be selected:</p>
 LINEAR LEAST SQUARES
  
 LLS - McGill
-CPU times: user 1.74 ms, sys: 0 ns, total: 1.74 ms
+CPU times: user 1.45 ms, sys: 257 µs, total: 1.71 ms
 Wall time: 1.34 ms
  
 LLS - Edinburgh
-CPU times: user 62.7 ms, sys: 4.17 ms, total: 66.9 ms
-Wall time: 64.3 ms
+CPU times: user 70.6 ms, sys: 390 µs, total: 71 ms
+Wall time: 66.1 ms
  
 LLS - Sydney
 </pre></div>
 </div>
-<div class="output stream highlight-myst-ansi notranslate"><div class="highlight"><pre><span></span>CPU times: user 3.7 s, sys: 6.94 ms, total: 3.71 s
-Wall time: 3.7 s
+<div class="output stream highlight-myst-ansi notranslate"><div class="highlight"><pre><span></span>CPU times: user 3.76 s, sys: 3.6 ms, total: 3.76 s
+Wall time: 3.75 s
  
 ========================
 NON-LINEAR LEAST SQUARES
  
 NLS - McGill
-CPU times: user 5.44 ms, sys: 0 ns, total: 5.44 ms
-Wall time: 5.11 ms
+CPU times: user 6.3 ms, sys: 123 µs, total: 6.42 ms
+Wall time: 5.66 ms
  
 NLS - Edinburgh
 </pre></div>
 </div>
-<div class="output stream highlight-myst-ansi notranslate"><div class="highlight"><pre><span></span>CPU times: user 2.35 s, sys: 7.62 ms, total: 2.36 s
-Wall time: 2.35 s
+<div class="output stream highlight-myst-ansi notranslate"><div class="highlight"><pre><span></span>CPU times: user 2.33 s, sys: 11.6 ms, total: 2.34 s
+Wall time: 2.33 s
  
 NLS - Sydney
 </pre></div>
 </div>
-<div class="output stream highlight-myst-ansi notranslate"><div class="highlight"><pre><span></span>CPU times: user 5.24 s, sys: 13.3 ms, total: 5.26 s
-Wall time: 5.24 s
+<div class="output stream highlight-myst-ansi notranslate"><div class="highlight"><pre><span></span>CPU times: user 5.23 s, sys: 3.64 ms, total: 5.23 s
+Wall time: 5.22 s
  
 </pre></div>
 </div>
@@ -375,12 +375,6 @@ As a reminder, the noise levels were: <span class="math notranslate nohighlight"
 <div class="cell_input docutils container">
 <div class="highlight-ipython3 notranslate"><div class="highlight"><pre><span></span><span class="n">drawfunc</span> <span class="o">=</span> <span class="k">lambda</span> <span class="n">idx</span><span class="p">,</span> <span class="n">title</span><span class="p">:</span> <span class="n">show_error_maps</span><span class="p">(</span><span class="n">mcgill_lls</span><span class="p">,</span> <span class="n">idx</span> <span class="o">=</span> <span class="n">idx</span><span class="p">,</span> <span class="n">truth</span> <span class="o">=</span> <span class="n">vfadata</span><span class="p">,</span> <span class="n">title</span> <span class="o">=</span> <span class="n">title</span><span class="p">,</span> <span class="n">showcbar</span> <span class="o">=</span> <span class="kc">True</span><span class="p">,</span> <span class="n">returnfig</span> <span class="o">=</span> <span class="kc">True</span><span class="p">)</span>
 <span class="n">make_error_map_gif</span><span class="p">(</span><span class="n">drawfunc</span><span class="p">,</span> <span class="n">title</span> <span class="o">=</span> <span class="s2">&quot;Linear least squares&quot;</span><span class="p">,</span> <span class="n">filename</span> <span class="o">=</span> <span class="s2">&quot;./images/mcgill_lls_error.gif&quot;</span><span class="p">)</span>
-</pre></div>
-</div>
-</div>
-<div class="cell_output docutils container">
-<div class="output stderr highlight-myst-ansi notranslate"><div class="highlight"><pre><span></span>/opt/hostedtoolcache/Python/3.8.12/x64/lib/python3.8/site-packages/osipi/utils/nb.py:40: UserWarning: This figure includes Axes that are not compatible with tight_layout, so results might be incorrect.
-  fig.tight_layout()
 </pre></div>
 </div>
 </div>
